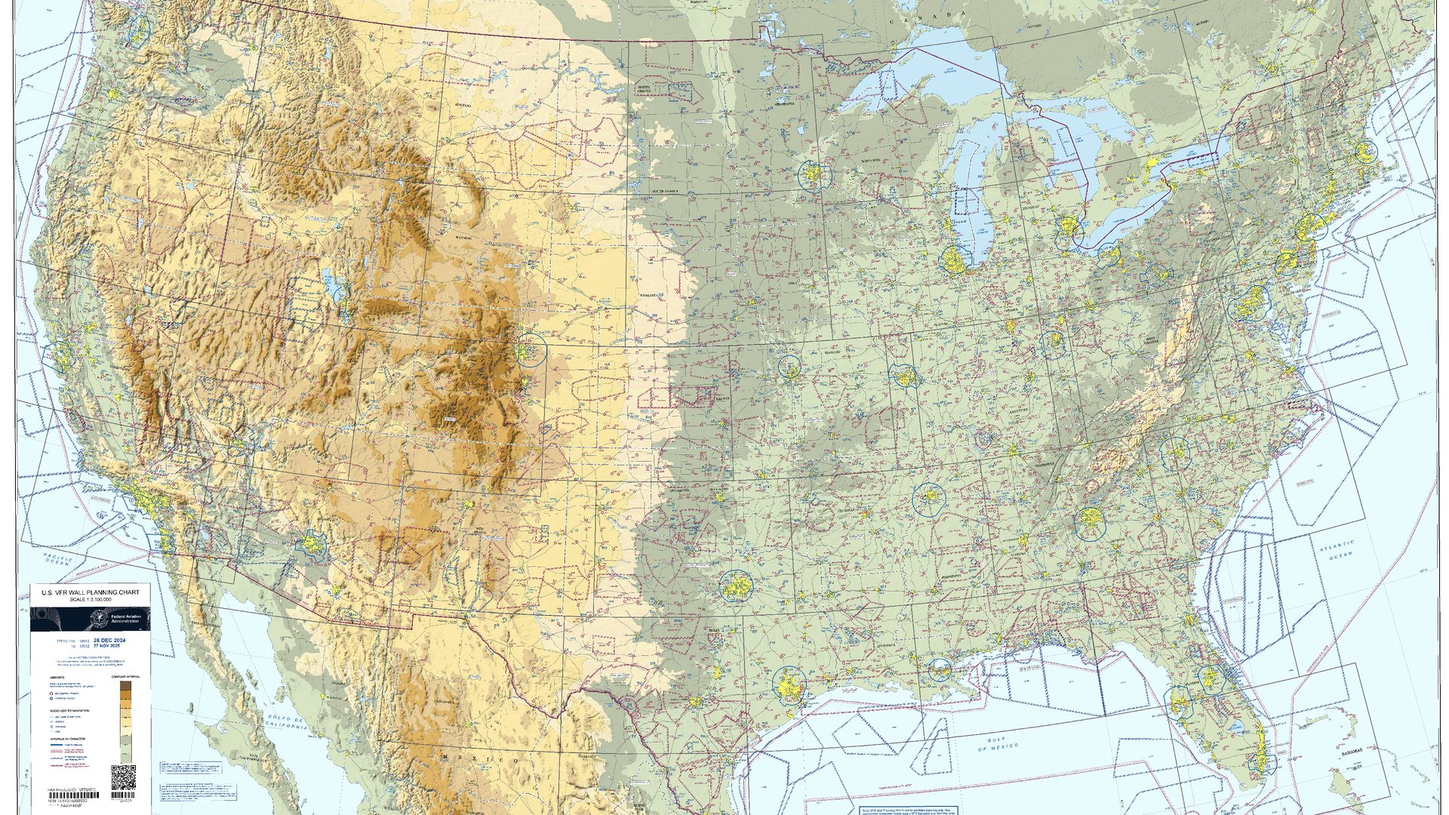
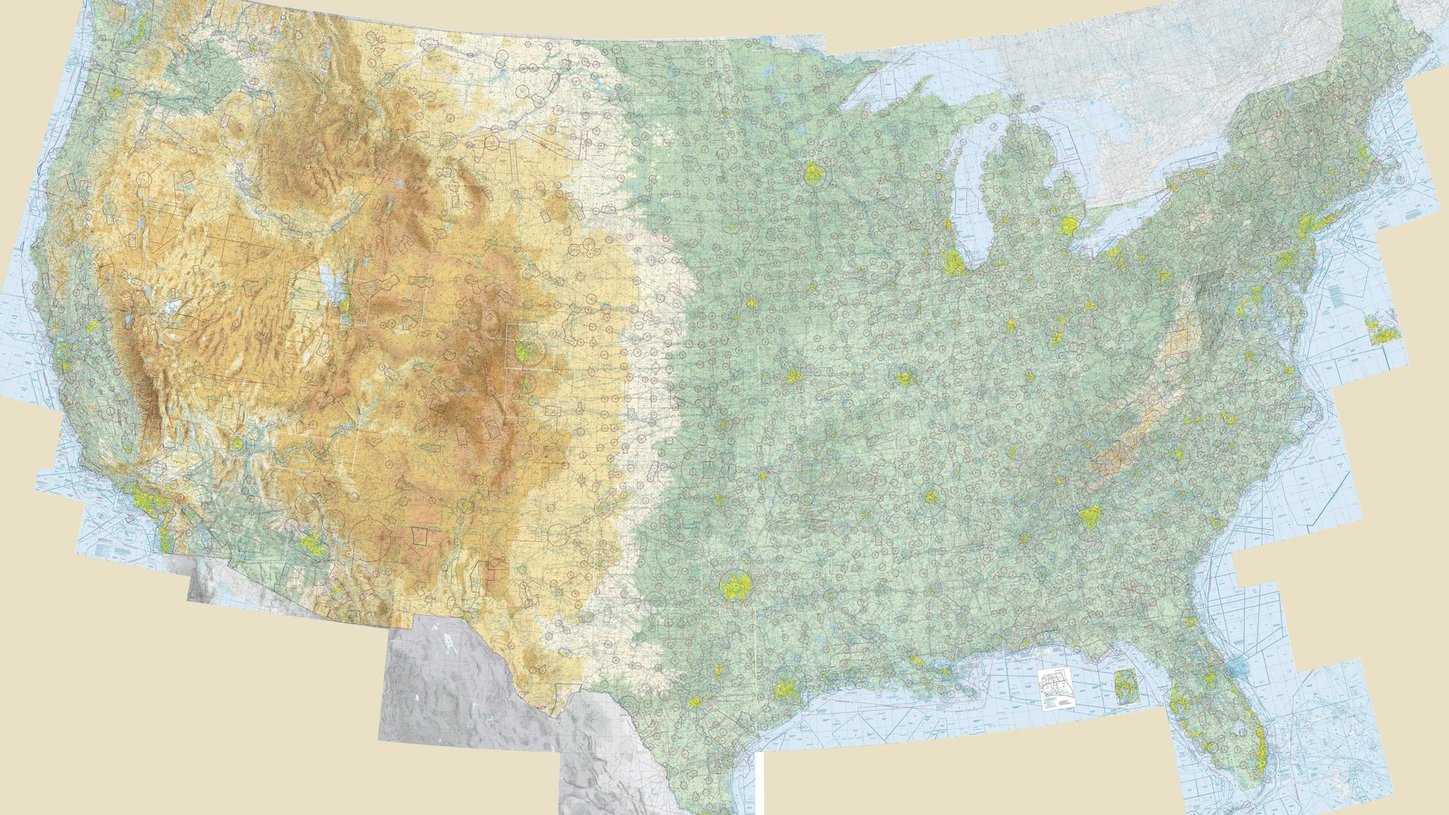
Sharp chart: current FAA VFR Sectionals (09-03-2026) as deep-zoom tiles, zoom/pan, update script; Airport Spotlight cycle

diff --git a/public/index.html b/public/index.html
@@ -22,6 +22,30 @@ canvas{position:absolute;inset:0;width:100%;height:100%}
 #radarBtn.on{background:#1f6f2b;color:#fff}
 #radarBtn:focus{outline:.25vw solid #ffb300}
 #stale{color:#b00;font-weight:800;display:none}
+
+.card{z-index:3}#radarBtn{z-index:3}
+#dim{z-index:2;position:absolute;inset:0;background:rgba(10,14,22,.5);opacity:0;transition:opacity .8s;pointer-events:none}
+#dim.on{opacity:1}
+#spot{z-index:4;position:absolute;left:36.5%;right:1.5%;top:3%;bottom:3%;background:#fff;border:.14vw solid #111;box-shadow:0 .5vw 2vw rgba(0,0,0,.45);opacity:0;transform:translateX(3%) scale(.98);transition:opacity .7s,transform .7s;display:flex;flex-direction:column;padding:1.2vw 1.4vw;box-sizing:border-box;color:#111;pointer-events:none}
+#spot.on{opacity:1;transform:none}
+#spot .hd{display:flex;align-items:center;gap:1.2vw;border-bottom:.12vw solid #111;padding-bottom:.6vw;margin-bottom:.9vw}
+#spot .sid{font-size:3.6vw;font-weight:900;letter-spacing:.04em;line-height:1}
+#spot .snm{font-size:1.35vw;font-weight:700;line-height:1.2}
+#spot .ssub{font-size:.85vw;color:#444;letter-spacing:.1em;text-transform:uppercase;margin-top:.2vw}
+#spot .cat{margin-left:auto;font-size:2vw;font-weight:900;color:#fff;padding:.35vw 1.1vw;border-radius:.3vw;letter-spacing:.06em}
+#spot .bd{flex:1;display:flex;gap:1.2vw;min-height:0}
+#spot .wx{flex:0 0 46%;display:flex;flex-direction:column;gap:.5vw;min-width:0}
+#spot .kv{display:flex;justify-content:space-between;align-items:baseline;border-bottom:.06vw solid #ccc;padding:.2vw 0}
+#spot .k{font-size:.8vw;letter-spacing:.14em;color:#555;text-transform:uppercase;font-weight:700}
+#spot .v{font-size:1.55vw;font-weight:800;text-align:right}
+#spot .raw{font:600 .78vw/1.35 Menlo,Consolas,monospace;color:#222;background:#f3f3ef;padding:.4vw .5vw;border-left:.25vw solid #888;white-space:pre-wrap;word-break:break-word}
+#spot .lab2{font-size:.8vw;letter-spacing:.14em;color:#555;text-transform:uppercase;font-weight:800;margin-top:.3vw}
+#spot .img{flex:1;display:flex;flex-direction:column;min-width:0;min-height:0}
+#spot .img .box{flex:1;min-height:0;display:flex;align-items:center;justify-content:center;background:#f6f6f2;border:.08vw solid #999;overflow:hidden}
+#spot .wx .img{flex:1;min-height:6vw;margin-top:.3vw}
+#spot .img .box img,#spot .img .box canvas{max-width:100%;max-height:100%;object-fit:contain;display:block}
+#spot .cap{font-size:.72vw;color:#444;margin-top:.3vw;letter-spacing:.04em}
+#spot .phase{position:absolute;right:1.4vw;bottom:.6vw;font-size:.7vw;color:#666;letter-spacing:.1em}
 </style></head><body>
 <div id="stage"><div id="wrap">
 <canvas id="base"></canvas><canvas id="radar"></canvas><canvas id="route"></canvas><canvas id="leds"></canvas>
@@ -35,6 +59,7 @@ canvas{position:absolute;inset:0;width:100%;height:100%}
 <div class="card" id="plan"><h3>Flight Plan</h3><div class="big" id="pRoute"></div>
 <div class="row" style="margin-top:.3vw"><div><div class="lab">Depart</div><div class="val" id="pDep"></div></div><div><div class="lab">Arrive (ETA)</div><div class="val" id="pEta"></div></div></div>
 <div class="row" style="margin-top:.2vw"><div><div class="lab">Route</div><div class="val" id="pVia" style="font-size:.8vw;font-weight:400"></div></div><div><div class="lab">Dist</div><div class="val" id="pDist"></div></div></div></div>
+<div id="dim"></div><div id="spot"></div>
 <button id="radarBtn" tabindex="0">RADAR OFF (R)</button>
 </div></div>
 <script>
@@ -51,10 +76,24 @@ let P;function initProj(c){const a=6378137,e=0.0818191908426,r=Math.PI/180;const
  const f1=c.lat1*r,f2=c.lat2*r,f0=c.lat0*r,n=(Math.log(m(f1))-Math.log(m(f2)))/(Math.log(t(f1))-Math.log(t(f2))),F=m(f1)/(n*t(f1)**n),r0=a*F*t(f0)**n;
  P={c,fwd(lat,lon){const rr=a*F*t(lat*r)**n,th=n*(lon-c.lon0)*r;return[rr*Math.sin(th),r0-rr*Math.cos(th)]},
  inv(x,y){const rp=Math.sign(n)*Math.hypot(x,r0-y),tp=(rp/(a*F))**(1/n),th=Math.atan2(x,r0-y);let f=Math.PI/2-2*Math.atan(tp);for(let i=0;i<4;i++)f=Math.PI/2-2*Math.atan(tp*((1-e*Math.sin(f))/(1+e*Math.sin(f)))**(e/2));return[f/r,th/n/r+c.lon0]}};}
-const px=(lat,lon)=>{const[x,y]=P.fwd(lat,lon),c=P.c;return[(x-c.xmin)/(c.xmax-c.xmin)*W,(c.ymax-y)/(c.ymax-c.ymin)*H]};
+let V=null;// visible window in chart-frame metres {x0,x1,y0,y1}
+const px=(lat,lon)=>{const[x,y]=P.fwd(lat,lon);return[(x-V.x0)/(V.x1-V.x0)*W,(V.y1-y)/(V.y1-V.y0)*H]};
 function size(){const w=$('wrap').getBoundingClientRect();DPR=Math.min(3,window.devicePixelRatio||1);W=Math.round(w.width*DPR);H=Math.round(w.height*DPR);for(const id of['base','radar','route','leds']){const c=$(id);c.width=W;c.height=H}drawBase();drawRadar();drawRoute();drawLeds()}
 let states=null,chartOK=false;
-function drawBase(){const g=$('base').getContext('2d');g.clearRect(0,0,W,H);if(chartOK||!states)return;// fallback if chart raster unavailable
+// ---- Deep-zoom FAA sectional tiles (public/tiles/L/row/col.webp, 512 px; level 0 = 3840 px wide frame) ----
+const TC=new Map();let fullImg=null,baseQ=0;
+function tileImg(l,x,y){const k=l+'/'+y+'/'+x;let t=TC.get(k);if(!t){const im=new Image();t={im,ok:false,bad:false};im.onload=()=>{t.ok=true;queueBase()};im.onerror=()=>{t.bad=true};im.src='/tiles/'+k+'.'+(P.c.tileExt||'webp');TC.set(k,t);if(TC.size>900){const it=TC.keys().next().value;TC.delete(it)}}return t}
+function queueBase(){if(!baseQ)baseQ=requestAnimationFrame(()=>{baseQ=0;drawBase()})}
+function drawBase(){const g=$('base').getContext('2d'),c=P.c;g.fillStyle='#e9e0c6';g.fillRect(0,0,W,H);
+ if(chartOK){const FW=c.xmax-c.xmin,FH=c.ymax-c.ymin;g.imageSmoothingEnabled=true;g.imageSmoothingQuality='high';
+  const iw=fullImg.naturalWidth,ih=fullImg.naturalHeight;g.drawImage(fullImg,(V.x0-c.xmin)/FW*iw,(c.ymax-V.y1)/FH*ih,(V.x1-V.x0)/FW*iw,(V.y1-V.y0)/FH*ih,0,0,W,H);
+  const need=W*FW/((V.x1-V.x0)*c.w);let L=Math.max(0,Math.min(c.maxLevel||0,Math.ceil(Math.log2(need)-0.15)));
+  if(c.maxLevel!=null&&(need>iw/c.w*1.05)&&tilesOK){const Wl=c.w*2**L,mpp=FW/Wl,T=c.tile,mt=mpp*T;
+   const tx0=Math.max(0,Math.floor((V.x0-c.xmin)/mt)),tx1=Math.floor((V.x1-c.xmin)/mt),ty0=Math.max(0,Math.floor((c.ymax-V.y1)/mt)),ty1=Math.floor((c.ymax-V.y0)/mt);
+   const sx=W/(V.x1-V.x0);for(let ty=ty0;ty<=ty1;ty++)for(let tx=tx0;tx<=tx1;tx++){const t=tileImg(L,tx,ty);if(!t.ok)continue;
+    const X=(c.xmin+tx*mt-V.x0)*sx,Y=(V.y1-(c.ymax-ty*mt))*sx;g.drawImage(t.im,Math.floor(X),Math.floor(Y),Math.ceil(mt*sx)+1,Math.ceil(mt*sx)+1)}}
+  return}
+ if(!states)return;// fallback if chart raster unavailable
  g.fillStyle='#e9e0c6';g.fillRect(0,0,W,H);g.strokeStyle='#7a6a55';g.lineWidth=1.2*DPR;g.beginPath();for(const f of states.features)for(const ln of f.geometry.coordinates){ln.forEach(([lo,la],i)=>{const[x,y]=px(la,lo);i?g.lineTo(x,y):g.moveTo(x,y)})}g.stroke()}
 // LED station selection: manned (non-AUTO) stations first, then grid-thinned to ~LED density
 function pick(list){if(all)return list;const keep=new Set(['KPAH','KMWA','KCGI','KEVV','KSTL','KBNA','KMEM','KSDF']);const cell=W/34;const occ=new Map(),out=[];
@@ -69,10 +108,10 @@ function drawLeds(){const g=$('leds').getContext('2d');g.clearRect(0,0,W,H);cons
   const gr=g.createRadialGradient(x,y,0,x,y,r*4.2);gr.addColorStop(0,c+'cc');gr.addColorStop(.35,c+'55');gr.addColorStop(1,c+'00');g.fillStyle=gr;g.beginPath();g.arc(x,y,r*4.2,0,7);g.fill();
   g.fillStyle=c;g.beginPath();g.arc(x,y,r*1.15,0,7);g.fill();g.fillStyle='rgba(255,255,255,.85)';g.beginPath();g.arc(x-r*.3,y-r*.3,r*.45,0,7);g.fill();}
  $('cnt').textContent=n+' stations'}
-function drawRadar(){const cv=$('radar'),g=cv.getContext('2d');g.clearRect(0,0,W,H);if(!radarOn||!radarImg)return;
+function drawRadar(){const cv=$('radar'),g=cv.getContext('2d');g.clearRect(0,0,W,H);if(!radarOn||!radarImg||anim)return;
  const s=document.createElement('canvas');s.width=radarImg.width;s.height=radarImg.height;const sg=s.getContext('2d');sg.drawImage(radarImg,0,0);const sd=sg.getImageData(0,0,s.width,s.height).data;
- const sc=2,w=Math.ceil(W/sc),h=Math.ceil(H/sc),out=g.createImageData(w,h),c=P.c,o=out.data;// bbox -127,22,-64,52
- for(let j=0;j<h;j++){const y=c.ymax-(j*sc/H)*(c.ymax-c.ymin);for(let i=0;i<w;i++){const x=c.xmin+(i*sc/W)*(c.xmax-c.xmin);const[la,lo]=P.inv(x,y);const u=Math.floor((lo+127)/63*s.width),v=Math.floor((52-la)/30*s.height);if(u<0||v<0||u>=s.width||v>=s.height)continue;const k=(v*s.width+u)*4,q=(j*w+i)*4;if(sd[k+3]<10)continue;o[q]=sd[k];o[q+1]=sd[k+1];o[q+2]=sd[k+2];o[q+3]=Math.min(200,sd[k+3])}}
+ const sc=2,w=Math.ceil(W/sc),h=Math.ceil(H/sc),out=g.createImageData(w,h),o=out.data;// bbox -127,22,-64,52
+ for(let j=0;j<h;j++){const y=V.y1-(j*sc/H)*(V.y1-V.y0);for(let i=0;i<w;i++){const x=V.x0+(i*sc/W)*(V.x1-V.x0);const[la,lo]=P.inv(x,y);const u=Math.floor((lo+127)/63*s.width),v=Math.floor((52-la)/30*s.height);if(u<0||v<0||u>=s.width||v>=s.height)continue;const k=(v*s.width+u)*4,q=(j*w+i)*4;if(sd[k+3]<10)continue;o[q]=sd[k];o[q+1]=sd[k+1];o[q+2]=sd[k+2];o[q+3]=Math.min(200,sd[k+3])}}
  const t=document.createElement('canvas');t.width=w;t.height=h;t.getContext('2d').putImageData(out,0,0);g.imageSmoothingEnabled=true;g.drawImage(t,0,0,W,H)}
 function loadRadar(){if(!radarOn)return;const im=new Image();im.onload=()=>{radarImg=im;radarT=new Date();$('rtime').textContent='Radar '+fmt(radarT);drawRadar()};im.src='/api/radar?t='+Date.now()}
 function setRadar(v){radarOn=v;localStorage.radar=v?'1':'0';$('radarBtn').textContent='RADAR '+(v?'ON':'OFF')+' (R)';$('radarBtn').classList.toggle('on',v);if(v&&!radarImg)loadRadar();if(!v)$('rtime').textContent='';drawRadar()}
@@ -90,13 +129,70 @@ let lastOk=0;async function loadMetars(){try{const j=await(await fetch('/api/met
 function tick(){$('clock').textContent='Updated '+(lastOk?fmt(lastOk):'—');if(lastOk&&Date.now()-lastOk>15*6e4)$('stale').style.display='inline'}
 document.addEventListener('keydown',e=>{const k=e.key.toLowerCase();if(k==='r'||k==='enter'||k===' '||e.keyCode===403||e.keyCode===13){e.preventDefault();setRadar(!radarOn)}});
 $('radarBtn').onclick=()=>setRadar(!radarOn);
-(async()=>{const c=await(await fetch('/chart.json')).json();initProj(c);const big=Math.max(screen.width,screen.height)*(window.devicePixelRatio||1)>2200;
- await new Promise(ok=>{const im=new Image();im.onload=()=>{chartOK=true;$('wrap').style.backgroundImage=`url(${im.src})`;ok()};im.onerror=ok;im.src=big?'/chart.jpg':'/chart-1080.jpg'});
+(async()=>{const c=await(await fetch('/chart.json')).json();initProj(c);V=full();const big=Math.max(screen.width,screen.height)*(window.devicePixelRatio||1)>2200;
+ if(Q.get('lat')&&Q.get('lon')){const z=+Q.get('zoom')||8;V=viewAt(+Q.get('lat'),+Q.get('lon'),z)}
+ fetch('/tiles/0/0/0.webp',{method:'HEAD'}).then(r=>{tilesOK=r.ok;queueBase()}).catch(()=>{});
+ await new Promise(ok=>{const im=new Image();im.onload=()=>{chartOK=true;fullImg=im;ok()};im.onerror=ok;im.src=big?'/chart.jpg':'/chart-1080.jpg'});
  if(!chartOK)states=await(await fetch('/us-states.geojson')).json();
- size();addEventListener('resize',size);setRadar(radarOn);$('radarBtn').focus();
+ size();addEventListener('resize',size);setRadar(radarOn);$('radarBtn').focus();initZoom();
  await Promise.all([loadMetars(),loadPlan()]);tick();
- setInterval(loadMetars,5*6e4);setInterval(loadPlan,6e4);setInterval(()=>loadRadar(),5*6e4);setInterval(tick,15e3);
+ setInterval(loadMetars,5*6e4);setInterval(loadPlan,6e4);startCycle();setInterval(()=>loadRadar(),5*6e4);setInterval(tick,15e3);
  setInterval(()=>fetch('/api/ping',{cache:'no-store'}).catch(()=>{}),5*6e4);// keep-alive for Render free plan
  setTimeout(()=>location.reload(),6*36e5);// daily-ish hard refresh for kiosk memory hygiene
 })();
+
+// ---------- View / zoom (wheel, drag, pinch, +/-/0 keys; ?lat=&lon=&zoom=) ----------
+let tilesOK=false,anim=0,userT=0;
+function full(){const c=P.c;return{x0:c.xmin,x1:c.xmax,y0:c.ymin,y1:c.ymax}}
+function viewAt(lat,lon,z,fx=.5,fy=.5){const c=P.c,w=(c.xmax-c.xmin)/z,h=(c.ymax-c.ymin)/z,[x,y]=P.fwd(lat,lon);return clampV({x0:x-w*fx,x1:x+w*(1-fx),y1:y+h*fy,y0:y-h*(1-fy)})}
+function clampV(v){const c=P.c,w=Math.min(v.x1-v.x0,c.xmax-c.xmin),h=w*(c.ymax-c.ymin)/(c.xmax-c.xmin);let x0=Math.max(c.xmin,Math.min(v.x0,c.xmax-w)),y0=Math.max(c.ymin,Math.min(v.y0,c.ymax-h));return{x0,x1:x0+w,y0,y1:y0+h}}
+function redraw(){drawBase();drawRoute();drawLeds();if(!anim)drawRadar()}
+function setView(v,ms=0){v=clampV(v);cancelAnimationFrame(anim);if(!ms){anim=0;V=v;redraw();return}
+ const a=V,t0=performance.now(),lg=k=>Math.log(a.x1-a.x0)+(Math.log(v.x1-v.x0)-Math.log(a.x1-a.x0))*k;
+ const step=now=>{let k=Math.min(1,(now-t0)/ms);k=k<.5?2*k*k:1-(-2*k+2)**2/2;const w=Math.exp(lg(k)),h=w*(a.y1-a.y0)/(a.x1-a.x0);
+  const cx=(a.x0+a.x1)/2+((v.x0+v.x1)/2-(a.x0+a.x1)/2)*k,cy=(a.y0+a.y1)/2+((v.y0+v.y1)/2-(a.y0+a.y1)/2)*k;
+  V={x0:cx-w/2,x1:cx+w/2,y0:cy-h/2,y1:cy+h/2};if(k<1){anim=requestAnimationFrame(step);drawBase();drawRoute();drawLeds()}else{anim=0;V=v;redraw()}};anim=requestAnimationFrame(step)}
+function zoomBy(f,sx=.5,sy=.5){const w=V.x1-V.x0,h=V.y1-V.y0,mx=V.x0+w*sx,my=V.y1-h*sy,nw=Math.min(P.c.xmax-P.c.xmin,w/f),nh=nw*h/w;userT=Date.now();setView({x0:mx-nw*sx,x1:mx+nw*(1-sx),y1:my+nh*sy,y0:my-nh*(1-sy)})}
+function initZoom(){const el=$('wrap');document.body.style.cursor='default';
+ el.addEventListener('wheel',e=>{e.preventDefault();const r=el.getBoundingClientRect();zoomBy(Math.exp(-e.deltaY*.0018),(e.clientX-r.left)/r.width,(e.clientY-r.top)/r.height)},{passive:false});
+ const pts=new Map();let last=null;
+ el.addEventListener('pointerdown',e=>{pts.set(e.pointerId,[e.clientX,e.clientY]);el.setPointerCapture(e.pointerId)});
+ el.addEventListener('pointerup',e=>{pts.delete(e.pointerId);last=null});el.addEventListener('pointercancel',e=>{pts.delete(e.pointerId);last=null});
+ el.addEventListener('pointermove',e=>{if(!pts.has(e.pointerId))return;const r=el.getBoundingClientRect();const prev=pts.get(e.pointerId);pts.set(e.pointerId,[e.clientX,e.clientY]);userT=Date.now();
+  if(pts.size===1){const w=V.x1-V.x0,h=V.y1-V.y0,dx=(e.clientX-prev[0])/r.width*w,dy=(e.clientY-prev[1])/r.height*h;setView({x0:V.x0-dx,x1:V.x1-dx,y0:V.y0+dy,y1:V.y1+dy})}
+  else if(pts.size===2){const[p,q]=[...pts.values()],d=Math.hypot(p[0]-q[0],p[1]-q[1]);if(last)zoomBy(d/last,((p[0]+q[0])/2-r.left)/r.width,((p[1]+q[1])/2-r.top)/r.height);last=d}});
+ document.addEventListener('keydown',e=>{if(e.key==='+'||e.key==='='||e.keyCode===427)zoomBy(1.6);else if(e.key==='-'||e.keyCode===428)zoomBy(1/1.6);else if(e.key==='0'){userT=0;setView(full(),600)}});}
+// ---------- Airport Spotlight (only while a flight plan is loaded): map -> DEP -> map -> DEST, every ?cycle= s (default 10) ----------
+const CYC=Math.max(3,+(Q.get('cycle')||10))*1000,SP={},CATC={VFR:'#00a83a',MVFR:'#0a50ff',IFR:'#e00010',LIFR:'#c000c0'};let phase=0,cycT=null,spotOn=null;
+function startCycle(){clearInterval(cycT);cycT=setInterval(cycStep,CYC)}
+function cycStep(){if(!planData){if(spotOn)hideSpot();phase=0;return}if(Date.now()-userT<60e3)return;// pause after manual zoom/pan
+ phase=(phase+1)%4;if(phase===1)showSpot(planData.dep.id,'DEPARTURE');else if(phase===3)showSpot(planData.dest.id,'DESTINATION');else hideSpot()}
+function hideSpot(){spotOn=null;$('radarBtn').style.visibility='';$('spot').classList.remove('on');$('dim').classList.remove('on');setView(full(),1400)}
+const esc=t=>String(t??'').replace(/[&<>"]/g,c=>({'&':'&amp;','<':'&lt;','>':'&gt;','"':'&quot;'}[c]));
+async function spotData(id){const s=SP[id];if(s&&Date.now()-s.t<120e3)return s.d;const d=await(await fetch('/api/spot?id='+id)).json();SP[id]={t:Date.now(),d,apd:s?.apd,aer:s?.aer};
+ if(!SP[id].aer){const im=new Image();im.src=`/api/aerial?lat=${d.lat}&lon=${d.lon}&span=${spanFor(d)}`;SP[id].aer=im}
+ if(d.apd&&!SP[id].apd)SP[id].apd=renderApd(id);return d}
+function spanFor(d){const L=Math.max(3000,...(d.runways||[]).map(r=>+String(r.dimension).split('x')[0]||0));return Math.min(.05,Math.max(.012,L/364000*.85))}
+let pdfjs=null;async function renderApd(id){try{pdfjs=pdfjs||await import('https://cdn.jsdelivr.net/npm/pdfjs-dist@4.10.38/build/pdf.min.mjs');pdfjs.GlobalWorkerOptions.workerSrc='https://cdn.jsdelivr.net/npm/pdfjs-dist@4.10.38/build/pdf.worker.min.mjs';
+ const doc=await pdfjs.getDocument('/api/apd?id='+id).promise,pg=await doc.getPage(1),vp=pg.getViewport({scale:3}),cv=document.createElement('canvas');cv.width=vp.width;cv.height=vp.height;
+ await pg.render({canvasContext:cv.getContext('2d'),viewport:vp}).promise;return cv.toDataURL('image/png')}catch(e){console.warn('apd',e);return null}}
+const ft=m=>Math.round(m*3.28084);
+function decode(m){if(!m)return null;const wind=m.wspd===0?'Calm':(m.wdir==='VRB'?'VRB':String(m.wdir).padStart(3,'0')+'°')+' '+m.wspd+(m.wgst?'G'+m.wgst:'')+' kt';
+ const vis=(String(m.visib).replace('+','')==='10'?'10+':m.visib)+' SM';const cl=(m.clouds||[]);const ceil=cl.find(c=>/BKN|OVC|OVX/.test(c.cover));
+ const sky=cl.length?cl.map(c=>c.cover+(c.base!=null?String(Math.round(c.base/100)).padStart(3,'0'):'')).join(' '):(m.cover||'CLR');
+ const alt=m.altim?(m.altim*0.02953).toFixed(2)+' inHg':'—',cF=t=>t==null?'—':t.toFixed(0)+'°C';
+ return{wind,vis,ceil:ceil?ceil.base.toLocaleString()+' ft '+ceil.cover:'None',sky,td:cF(m.temp)+' / '+cF(m.dewp),alt,wx:m.wxString||'',obs:new Date(m.obsTime*1000)}}
+function tafLines(t){if(!t)return'';return t.rawTAF.replace(/\s+(FM\d{6}|TEMPO|BECMG|PROB\d{2})/g,'\n$1').split('\n').slice(0,6).join('\n')}
+async function showSpot(id,role){let d;try{d=await spotData(id)}catch{return}if(!planData)return;spotOn=id;const s=SP[id],m=decode(d.metar),cat=d.metar?.fltCat||'';
+ const apd=s.apd?await Promise.race([s.apd,new Promise(r=>setTimeout(()=>r(null),4000))]):null;if(spotOn!==id)return;
+ const aerCap='Aerial imagery: USGS National Map (NAIP orthoimagery)';
+ const aer=`<div class="img"><div class="lab2">Aerial View</div><div class="box"><img src="${s.aer.src}" style="width:100%;height:100%;object-fit:cover"></div><div class="cap">${aerCap}${apd?'':' · no FAA airport diagram published for '+esc(id)}</div></div>`;
+ const imgs=apd?`<div class="img"><div class="lab2">FAA Airport Diagram</div><div class="box" style="background:#fff"><img src="${apd}"></div><div class="cap">FAA d-TPP cycle ${esc(d.apd.cycle)} · ${esc(d.apd.pdf)} · not for navigation</div></div>`:aer;
+ const kv=(k,v)=>`<div class="kv"><span class="k">${k}</span><span class="v">${esc(v)}</span></div>`;
+ $('spot').innerHTML=`<div class="hd"><div class="sid">${esc(id)}</div><div><div class="snm">${esc(d.name.trim())}</div><div class="ssub">${role} · Elev ${esc(d.elev!=null?ft(d.elev)+' ft':'—')} · ${(d.runways||[]).map(r=>esc(r.id)).join('  ')}</div></div>${cat?`<div class="cat" style="background:${CATC[cat]||'#555'}">${cat}</div>`:''}</div>
+ <div class="bd"><div class="wx">${m?kv('Wind',m.wind)+kv('Visibility',m.vis)+kv('Ceiling',m.ceil)+kv('Sky',m.sky)+(m.wx?kv('Weather',m.wx):'')+kv('Temp / Dew',m.td)+kv('Altimeter',m.alt)+
+  `<div class="lab2">METAR · ${fmt(m.obs)}</div><div class="raw">${esc(d.metar.rawOb)}</div>`:'<div class="raw">No current METAR for '+esc(id)+'</div>'}
+  <div class="lab2">TAF ${d.taf?(d.tafNear?`· nearest: ${esc(d.taf.icaoId)} (${d.tafNear} NM) — none issued for ${esc(id)}`:''):''}</div><div class="raw">${d.taf?esc(tafLines(d.taf)):'No TAF within 40 NM'}</div>${apd?aer:''}</div>${imgs}</div>
+ <div class="phase">AIRPORT SPOTLIGHT · ${role==='DEPARTURE'?'1':'2'}/2</div>`;
+ $('spot').classList.add('on');$('dim').classList.add('on');$('radarBtn').style.visibility='hidden';setView(viewAt(d.lat,d.lon,14,.15,.42),1800)}
 </script></body></html>

diff --git a/server.js b/server.js
@@ -102,6 +102,30 @@ async function parsePlan(text, now = Date.now()) {
   if (!eta) eta = etd + (ete || dist / tas * 36e5);
   return { dep: pts[0], dest: pts[pts.length - 1], route: pts, routeText: toks.join(' '), distNm: Math.round(dist), etd, eta, expires: eta + 45 * 6e4, received: now };
 }
+
+// ---------- Airport Spotlight: decoded METAR + TAF (aviationweather.gov), FAA d-TPP airport diagram, USGS aerial ----------
+async function getJ(url, ttl) { return cached(url, ttl, async () => { const r = await fetch(url, { headers: UA }); if (!r.ok) throw new Error(r.status + ' ' + url); const t = await r.text(); return t.trim() ? JSON.parse(t) : []; }); }
+async function dtppIndex() { // icao -> APD pdf, from the current FAA d-TPP metafile (cached 12 h)
+  return cached('dtpp', 432e5, async () => {
+    const info = await (await fetch('https://external-api.faa.gov/apra/dtpp/info?edition=current', { headers: { ...UA, Accept: 'application/json' } })).json();
+    const e = info.edition[0], cycle = e.editionDate.slice(-2) + String(e.editionNumber).padStart(2, '0');
+    const xml = await (await fetch(`https://aeronav.faa.gov/d-tpp/${cycle}/xml_data/d-tpp_Metafile.xml`, { headers: UA })).text();
+    const idx = {}; const re = /<airport_name [^>]*icao_ident="([A-Z0-9]*)"[^>]*>([\s\S]*?)<\/airport_name>/g; let m;
+    while ((m = re.exec(xml))) { const a = m[2].match(/<chart_code>APD<\/chart_code>\s*<chart_name>[^<]*<\/chart_name>[\s\S]*?<pdf_name>([^<]+)<\/pdf_name>/); if (m[1] && a) idx[m[1]] = a[1]; }
+    return { cycle, from: e.editionDate, idx };
+  });
+}
+async function spot(id) {
+  const [met, apt] = await Promise.all([getJ(`https://aviationweather.gov/api/data/metar?ids=${id}&format=json`, 120e3), getJ(`https://aviationweather.gov/api/data/airport?ids=${id}&format=json`, 864e5)]);
+  const a = apt[0] || {}, m = met[0] || null, lat = +(a.lat ?? m?.lat), lon = +(a.lon ?? m?.lon);
+  let taf = (await getJ(`https://aviationweather.gov/api/data/taf?ids=${id}&format=json`, 300e3))[0] || null, tafNear = false;
+  if (!taf && isFinite(lat)) { // no TAF at this field: use the nearest TAF within ~40 NM, clearly labelled
+    const near = await getJ(`https://aviationweather.gov/api/data/taf?bbox=${(lat - .7).toFixed(2)},${(lon - .8).toFixed(2)},${(lat + .7).toFixed(2)},${(lon + .8).toFixed(2)}&format=json`, 300e3);
+    let best = null; for (const t of near) { const d = hav({ lat, lon }, { lat: t.lat, lon: t.lon }); if (d < 40 && (!best || d < best.d)) best = { t, d }; }
+    if (best) { taf = best.t; tafNear = Math.round(best.d); } }
+  let apd = null; try { const d = await dtppIndex(); if (d.idx[id]) apd = { cycle: d.cycle, pdf: d.idx[id], url: `https://aeronav.faa.gov/d-tpp/${d.cycle}/${d.idx[id]}` }; } catch {}
+  return { id, name: a.name || m?.name || id, lat, lon, elev: a.elev ?? m?.elev, runways: a.runways || [], metar: m, taf, tafNear, apd };
+}
 let plan = null; try { plan = JSON.parse(fs.readFileSync(PLAN_FILE, 'utf8')); } catch {}
 function currentPlan() { if (plan && Date.now() > plan.expires) { plan = null; try { fs.unlinkSync(PLAN_FILE); } catch {} } return plan; }
 function savePlan(p) { plan = p; fs.writeFileSync(PLAN_FILE, JSON.stringify(p)); }
@@ -127,6 +151,15 @@ const server = http.createServer(async (req, res) => {
     if (p === '/api/radar') { // IEM NEXRAD n0q composite, EPSG:4326 over CONUS, proxied + cached 4 min
       const img = await cached('radar', 240e3, async () => { const r = await fetch('https://mesonet.agron.iastate.edu/cgi-bin/wms/nexrad/n0q.cgi?SERVICE=WMS&REQUEST=GetMap&VERSION=1.1.1&LAYERS=nexrad-n0q-900913&STYLES=&SRS=EPSG:4326&BBOX=-127,22,-64,52&WIDTH=3150&HEIGHT=1500&FORMAT=image/png&TRANSPARENT=true', { headers: UA }); if (!r.ok) throw new Error('iem ' + r.status); return { b: Buffer.from(await r.arrayBuffer()), t: new Date().toISOString() }; });
       res.writeHead(200, { 'Content-Type': 'image/png', 'Cache-Control': 'no-store', 'X-Radar-Time': img.t }); return res.end(img.b); }
+    if (p === '/api/spot') { const id = (u.searchParams.get('id') || '').toUpperCase().replace(/[^A-Z0-9]/g, ''); return json(res, 200, await spot(id)); }
+    if (p === '/api/apd') { const id = (u.searchParams.get('id') || '').toUpperCase().replace(/[^A-Z0-9]/g, ''); const d = await dtppIndex(); if (!d.idx[id]) return json(res, 404, { error: 'no FAA airport diagram' });
+      const b = await cached('apd' + id + d.cycle, 864e5, async () => { const r = await fetch(`https://aeronav.faa.gov/d-tpp/${d.cycle}/${d.idx[id]}`, { headers: UA }); if (!r.ok) throw new Error('dtpp ' + r.status); return Buffer.from(await r.arrayBuffer()); });
+      res.writeHead(200, { 'Content-Type': 'application/pdf', 'Cache-Control': 'public, max-age=86400' }); return res.end(b); }
+    if (p === '/api/aerial') { const la = +u.searchParams.get('lat'), lo = +u.searchParams.get('lon'), sp = Math.min(.1, Math.max(.005, +u.searchParams.get('span') || .025));
+      if (!isFinite(la) || !isFinite(lo)) return json(res, 400, {}); const dx = sp / Math.cos(la * Math.PI / 180) * 4 / 3;
+      const url = `https://basemap.nationalmap.gov/arcgis/rest/services/USGSImageryOnly/MapServer/export?bbox=${lo - dx},${la - sp},${lo + dx},${la + sp}&bboxSR=4326&imageSR=3857&size=1600,1200&format=jpg&f=image`;
+      const b = await cached(url, 864e5, async () => { const r = await fetch(url, { headers: UA }); if (!r.ok) throw new Error('usgs ' + r.status); return Buffer.from(await r.arrayBuffer()); });
+      res.writeHead(200, { 'Content-Type': 'image/jpeg', 'Cache-Control': 'public, max-age=86400' }); return res.end(b); }
     if (p === '/api/plan' && req.method === 'GET') return json(res, 200, { plan: currentPlan() });
     if (p === '/api/plan' && req.method === 'DELETE') { if (KEY && u.searchParams.get('key') !== KEY) return json(res, 403, { error: 'bad key' }); plan = null; try { fs.unlinkSync(PLAN_FILE); } catch {} return json(res, 200, { ok: true }); }
     if ((p === '/api/plan' || p === '/api/inbound') && req.method === 'POST') {

diff --git a/tools/build_tiles.py b/tools/build_tiles.py
@@ -1,0 +1,80 @@
+# Build a deep-zoom tile pyramid of the CURRENT FAA VFR Sectional rasters (public domain, aeronav.faa.gov),
+# mosaicked into the app's Lambert Conformal Conic display frame so METAR dots (projected in the browser) line up.
+# Usage: python3 tools/build_tiles.py <dir-with-SEC.tif> <edition MM-DD-YYYY> [maxlevel]
+import glob, json, os, sys, math, numpy as np, rasterio
+from concurrent.futures import ProcessPoolExecutor
+from rasterio.vrt import WarpedVRT
+from rasterio.enums import Resampling
+from rasterio.features import rasterize
+from rasterio.transform import from_bounds
+from rasterio.warp import transform as wtr
+from PIL import Image
+SRC, ED = sys.argv[1], sys.argv[2]; MAXL = int(sys.argv[3]) if len(sys.argv) > 3 else 4
+ROOT = os.path.join(os.path.dirname(__file__), '..', 'public'); OUT = os.path.join(ROOT, 'tiles')
+FR = dict(lat1=45, lat2=33, lat0=38, lon0=-100, xmin=-2131062.18, xmax=2610537.27, ymin=-1310255.88, ymax=1356893.81)
+CRS = f"+proj=lcc +lat_1={FR['lat1']} +lat_2={FR['lat2']} +lat_0={FR['lat0']} +lon_0={FR['lon0']} +datum=WGS84 +units=m +no_defs"
+T = 512; W0 = 3840  # level 0 is 3840 px wide (4K full view); each level doubles
+CLIPS = json.load(open(os.path.join(os.path.dirname(__file__), 'sectional_clips.json')))
+def lvl_size(l): w = W0 * 2**l; return w, round(w * (FR['ymax']-FR['ymin']) / (FR['xmax']-FR['xmin']))
+charts = []
+for f in sorted(glob.glob(os.path.join(SRC, '*SEC.tif'))):
+    n = os.path.basename(f)[:-8].replace(' ', '_')
+    poly = CLIPS.get(n)
+    if not poly: print('no clip for', n); continue
+    dens = []  # densify edges so parallels curve correctly in the LCC frame
+    for (a, b), (c, d) in zip(poly, poly[1:] + poly[:1]):
+        for k in range(20): dens.append((a + (c-a)*k/20, b + (d-b)*k/20))
+    xs, ys = wtr('EPSG:4326', CRS, [p[0] for p in dens], [p[1] for p in dens])
+    charts.append((f, list(zip(xs, ys)), (min(xs), min(ys), max(xs), max(ys))))
+def tile(args):
+    tx, ty = args; l = MAXL; w, h = lvl_size(l); mpp = (FR['xmax']-FR['xmin'])/w
+    x0 = FR['xmin'] + tx*T*mpp; y1 = FR['ymax'] - ty*T*mpp; x1, y0 = x0 + T*mpp, y1 - T*mpp
+    tr = from_bounds(x0, y0, x1, y1, T, T); rgb = None
+    for f, poly, (bx0, by0, bx1, by1) in charts:
+        if bx1 < x0 or bx0 > x1 or by1 < y0 or by0 > y1: continue
+        m = rasterize([({'type': 'Polygon', 'coordinates': [poly]}, 1)], out_shape=(T, T), transform=tr).astype(bool)
+        if not m.any(): continue
+        with rasterio.open(f) as s, WarpedVRT(s, crs=CRS, transform=tr, width=T, height=T, resampling=Resampling.nearest if s.count == 1 else Resampling.bilinear) as v:
+            a = v.read()
+            if s.count == 1:
+                cm = s.colormap(1); lut = np.zeros((256, 3), np.uint8)
+                for k, c in cm.items(): lut[k] = c[:3]
+                px = lut[a[0]]
+            else: px = a[:3].transpose(1, 2, 0)
+        if rgb is None: rgb = np.full((T, T, 3), (233, 224, 198), np.uint8)
+        rgb[m] = px[m]
+    if rgb is None: return None
+    d = os.path.join(OUT, str(l), str(ty)); os.makedirs(d, exist_ok=True)
+    Image.fromarray(rgb).save(os.path.join(d, f'{tx}.webp'), quality=55, method=4); return (tx, ty)
+def down(l, tx, ty):  # build level l tile from 4 children of level l+1
+    im = Image.new('RGB', (2*T, 2*T), (233, 224, 198)); any_ = False
+    for dy in (0, 1):
+        for dx in (0, 1):
+            p = os.path.join(OUT, str(l+1), str(2*ty+dy), f'{2*tx+dx}.webp')
+            if os.path.exists(p): im.paste(Image.open(p).convert('RGB'), (dx*T, dy*T)); any_ = True
+    if not any_: return
+    d = os.path.join(OUT, str(l), str(ty)); os.makedirs(d, exist_ok=True)
+    im.resize((T, T), Image.LANCZOS).save(os.path.join(d, f'{tx}.webp'), quality=65, method=4)
+def downargs(a): down(*a)
+if __name__ == '__main__':
+    import shutil; shutil.rmtree(OUT, ignore_errors=True)
+    w, h = lvl_size(MAXL); jobs = [(x, y) for y in range(math.ceil(h/T)) for x in range(math.ceil(w/T))]
+    if os.environ.get('ONLY'): jobs = [tuple(map(int, os.environ['ONLY'].split(',')))]
+    with ProcessPoolExecutor(int(os.environ.get('JOBS', 8))) as ex:
+        done = sum(1 for r in ex.map(tile, jobs, chunksize=4) if r)
+    print('max level tiles', done)
+    for l in range(MAXL-1, -1, -1):
+        w, h = lvl_size(l)
+        with ProcessPoolExecutor(8) as ex: list(ex.map(downargs, [(l, x, y) for y in range(math.ceil(h/T)) for x in range(math.ceil(w/T))]))
+    # flattened full-view images for instant first paint
+    w, h = lvl_size(0); im = Image.new('RGB', (w, h), (233, 224, 198))
+    for y in range(math.ceil(h/T)):
+        for x in range(math.ceil(w/T)):
+            p = os.path.join(OUT, '0', str(y), f'{x}.webp')
+            if os.path.exists(p): im.paste(Image.open(p).convert('RGB'), (x*T, y*T))
+    im.save(os.path.join(ROOT, 'chart.jpg'), quality=85); im.resize((1920, 1080), Image.LANCZOS).save(os.path.join(ROOT, 'chart-1080.jpg'), quality=85)
+    cfg = dict(FR, w=W0, h=lvl_size(0)[1], tile=T, maxLevel=MAXL, tileExt='webp',
+               source='FAA VFR Sectional Aeronautical Charts (GeoTIFF), aeronav.faa.gov', edition=ED,
+               sourceUrl=f'https://aeronav.faa.gov/visual/{ED}/sectional-files/', nativeMetersPerPixel=42.33,
+               maxMetersPerPixel=round((FR['xmax']-FR['xmin'])/lvl_size(MAXL)[0], 1))
+    json.dump(cfg, open(os.path.join(ROOT, 'chart.json'), 'w'), indent=1); print(cfg)

diff --git a/README.md b/README.md
@@ -1,6 +1,15 @@
 # SkyDeck Live Map
-LED-style METAR flight-category wall map for a TV/kiosk. FAA VFR Wall Planning Chart background, live METARs (aviationweather.gov, 5 min), live NEXRAD radar toggle (IEM, R key / Enter / button), and flight plans by email or `/plan`.
-- `/?all=1` shows every station; `/?radar=1` starts with radar on.
-- Chart background built by the `build-chart` GitHub Action (FAA public domain).
-- Email: send or forward plans to **firerelief+qclivemap@mail.grokbot.com** (an assistant routine POSTs them to `/api/inbound`).
-- Optional alternative: `tools/gmail-forwarder.gs` (Google Apps Script relay from quin.colson+livemapskydeck@gmail.com).
+LED-style METAR flight-category wall map for a TV/kiosk. Live METARs (aviationweather.gov, 5 min), live NEXRAD radar toggle (IEM, R key / Enter / button), and flight plans by email or `/plan`.
+- `/?all=1` shows every station; `/?radar=1` starts with radar on; `/?style=led` old glow markers.
+- Zoom: mouse wheel / pinch / drag, `+` `-` keys, `0` resets. Deep link: `/?lat=37.06&lon=-88.77&zoom=40`.
+- **Airport Spotlight** (only while a flight plan is loaded): map → departure → map → destination, every `?cycle=<seconds>` (default 10). Shows decoded METAR, TAF (nearest TAF within 40 NM if none issued, labelled), the FAA d-TPP airport diagram (current cycle, rendered with pdf.js) and USGS NAIP aerial imagery. Pauses 60 s after manual zoom/pan.
+- Email: send or forward plans to **firerelief+qclivemap@mail.grokbot.com** (an assistant routine POSTs them to `/api/inbound`). Optional: `tools/gmail-forwarder.gs`.
+
+## Chart
+Background = **FAA VFR Sectional Aeronautical Charts**, GeoTIFFs downloaded directly from aeronav.faa.gov (public domain), 37 CONUS/border sheets
+mosaicked into the app's Lambert Conformal Conic frame (`public/chart.json`, edition recorded there). Deep-zoom pyramid: 512 px WebP tiles, levels 0–4
+(level 0 = 3840 px wide full view, level 4 = 61,440 px ≈ 77 m/px; FAA native is 42.3 m/px). The FAA no longer publishes the VFR Wall Planning Chart raster.
+Tiles (~500 MB) live in a GitHub Release asset (`tools/chart-release.txt`) and are fetched by the Render build (`tools/build-chart.sh`), keeping the git repo small.
+
+**Next FAA edition (56-day cycle):** `bash tools/update-chart.sh` (or `bash tools/update-chart.sh 10-29-2026`), then `git push` and redeploy.
+Sheet clip polygons in `tools/sectional_clips.json` are from jlmcgraw/aviationCharts.
